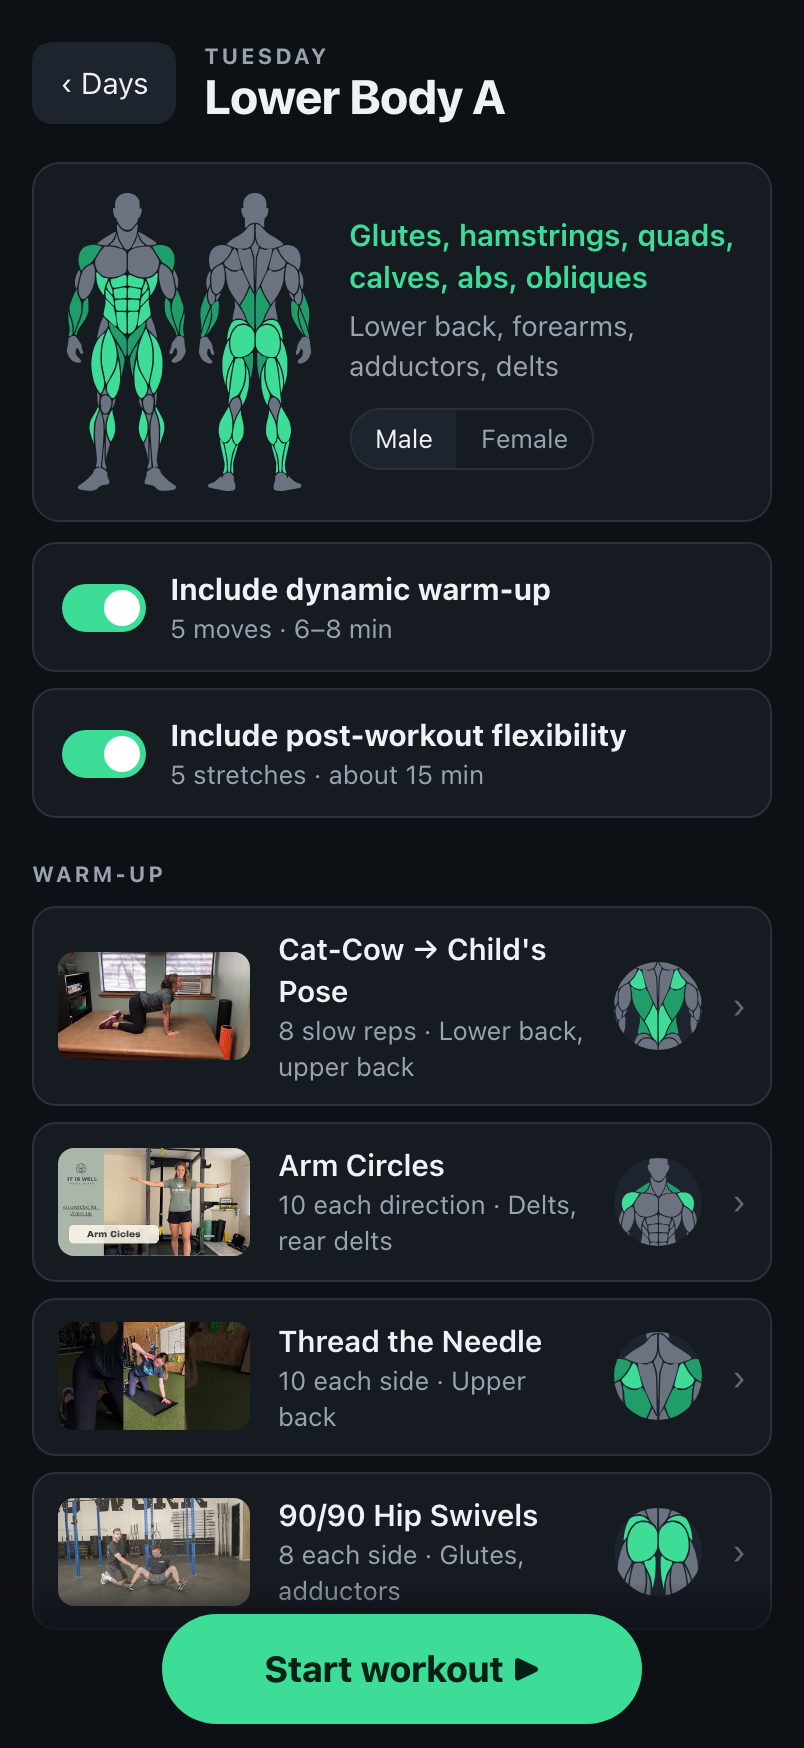
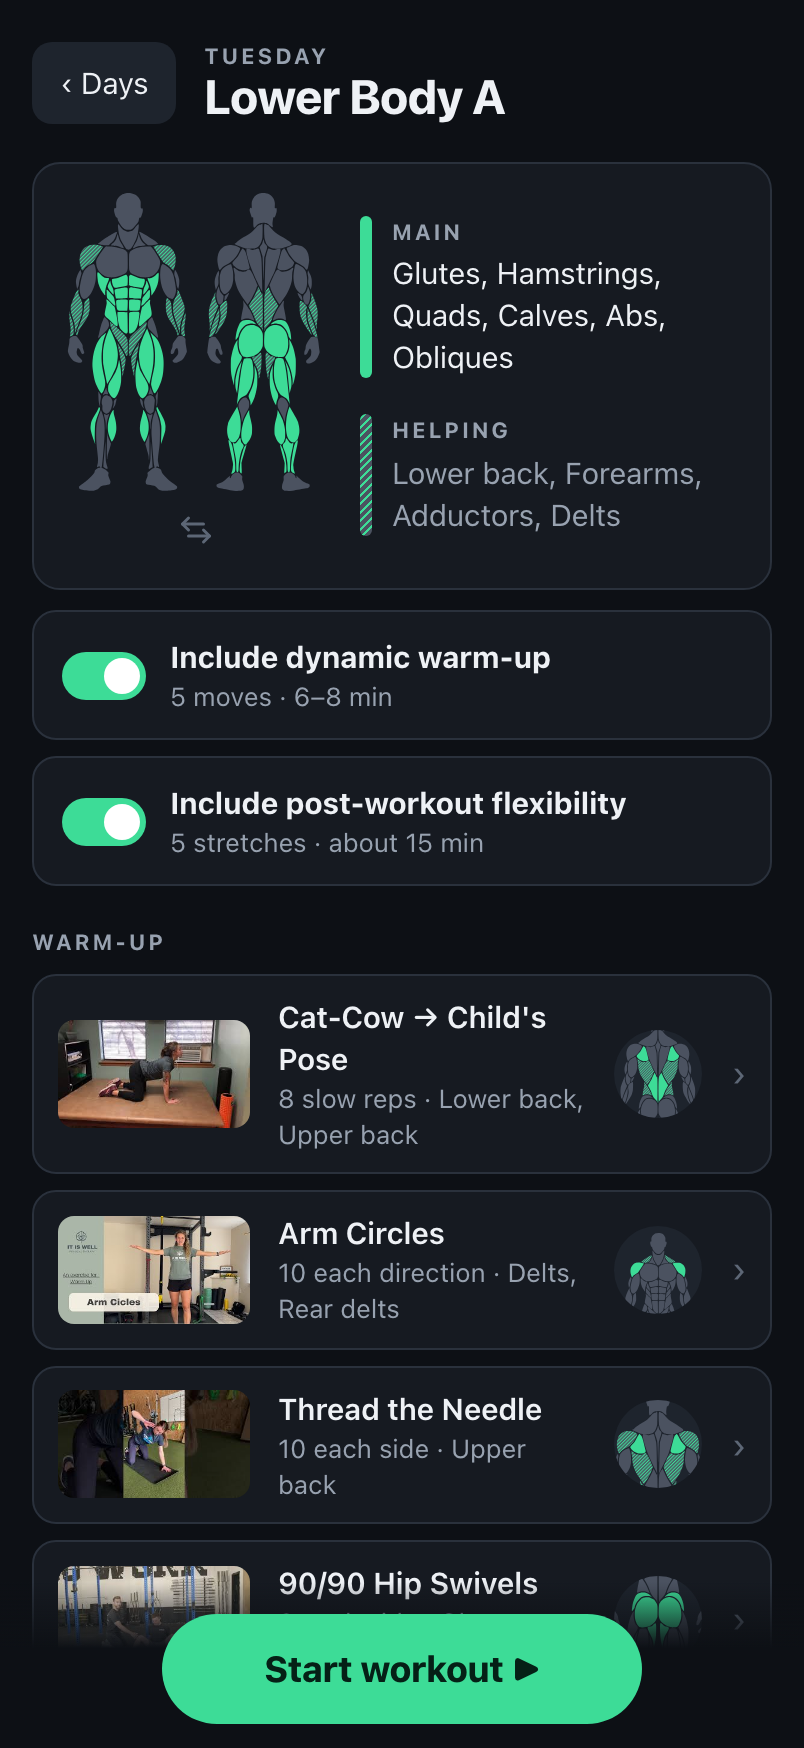
Very fine stripes for helping muscles, matched on the key's diagonal bar

diff --git a/styles.css b/styles.css
@@ -111,10 +111,10 @@ h1, h2, h3, p { margin: 0; }
 .fig-col { display: flex; flex-direction: column; align-items: center; gap: 4px; flex: none; }
 .fig-toggle { color: var(--faint); padding: 6px; border-radius: 8px; line-height: 0; }
 /* the key: a bar drawn like the muscles it stands for (solid main, striped helping) */
-.muscle-group { position: relative; padding: 2px 0 2px 13px; text-align: left; }
+.muscle-group { position: relative; padding: 2px 0 2px 16px; text-align: left; }
 .muscle-group + .muscle-group { margin-top: 14px; }
-.muscle-group::before { content: ""; position: absolute; left: 0; top: 2px; bottom: 2px; width: 3px; border-radius: 2px; background: #3ddc97; }
-.muscle-group.help::before { background: repeating-linear-gradient(to bottom, #3ddc97 0 4px, #4b5260 4px 8px); }
+.muscle-group::before { content: ""; position: absolute; left: 0; top: 2px; bottom: 2px; width: 6px; border-radius: 3px; background: #3ddc97; }
+.muscle-group.help::before { background: repeating-linear-gradient(-45deg, #3ddc97 0 1px, #4b5260 1px 3px); }   /* the figure's stripes, at this size */
 .muscle-group .names { margin-top: 3px; line-height: 1.4; }
 .muscle-group.help .names { color: var(--muted); }
 .finished .muscle-groups { max-width: 340px; }

diff --git a/index.html b/index.html
@@ -14,8 +14,8 @@
 <body>
 <!-- Stripes for helping muscles on every muscle figure (Figure.COLORS.help) -->
 <svg width="0" height="0" style="position:absolute" aria-hidden="true"><defs>
-  <pattern id="fig-help" patternUnits="userSpaceOnUse" width="36" height="36" patternTransform="rotate(45)">
-    <rect width="36" height="36" fill="#4b5260"/><rect width="16" height="36" fill="#3ddc97"/></pattern></defs></svg>
+  <pattern id="fig-help" patternUnits="userSpaceOnUse" width="16" height="16" patternTransform="rotate(45)">
+    <rect width="16" height="16" fill="#4b5260"/><rect width="7" height="16" fill="#3ddc97"/></pattern></defs></svg>
 
 <!-- Home: the plan's days -->
 <section id="home" class="screen">

diff --git a/CLAUDE.md b/CLAUDE.md
@@ -40,7 +40,7 @@ Live: https://ashwinr93.github.io/workout/ (branch `main`). Staging: https://ash
 - **Wording:** every cue must read well *and* sound natural when the coach says it — no bracketed asides, no pose-name labels ("Cow: …", "Y: …") — just the instruction (use "First… / Next… / Finally…" for sequences), no ALL-CAPS emphasis, no "DB" prefix in names. The self-test's Wording check enforces this.
 - **Screen hierarchy:** exercise name > target pill (holds: big countdown) > Focus card > current cue (follows the voice) > quiet amber safety line; Done is the biggest button. Must fit an iPhone in landscape (~852×320 usable) and portrait. Panel = scrollable `.panel-body` + `.controls` pinned to the bottom; never let flex squeeze content (`flex-shrink:0` on body children) — trim copy/spacing instead. The top bar stays inside the safe area (Dynamic Island). The Home Screen app uses an opaque status bar (`apple-mobile-web-app-status-bar-style: black`): with `black-translucent`, iOS 26 launches the page scrolled to −62 pt and later lets content slide under the status bar.
 - **Coach pacing:** set 1: name and target, the cues spread through the set, then the Focus last as "Remember, …" (never before the movement has been described). Cues never restate the Focus — each cue adds something new. Set 2 (or the second side): the Focus is the one reminder; later sets rotate other cues. Holds spread cues then the Focus, before "Ten seconds left". Rests say what's next and "Ten seconds. Get ready."
-- **Muscle map:** main muscles solid `#3ddc97`, helping muscles striped green (`#fig-help` pattern in index.html; two shades of green were too hard to tell apart), body `#4b5260`. The day card and finish screen key them as two groups: a small "MAIN" / "HELPING" label, the names in neutral text, and a thin bar drawn like the muscles (solid / striped). Muscle names are capitalised. The figure swap is a small ⇄ icon centred under the figures, no text. Badges frame themselves on the main muscles (view with the most main-muscle area). Rows: badge + "amount · main muscles"; player: main muscles in the set line and a badge beside the name/target (portrait: beside the target, name keeps the full width); rest: badge beside "Up next"; day summary card and finish screen: full front and back figures. Real muscle names on screen, never simplified. The male/female figure is switched by a quiet "Show female/male figure" link under the day card's figures (`store "figure"`): only where the figures are visible, never as a prominent control (it looked like it changed the workout) and not on the home page (meaningless before you've seen a figure) or the player; never in the plan link, never asked by the AI.
+- **Muscle map:** main muscles solid `#3ddc97`, helping muscles finely striped green (`#fig-help`: 45°, period 16 / stripe 7 figure units; two shades of green were too hard to tell apart), body `#4b5260`. The day card and finish screen key them as two groups: a small "MAIN" / "HELPING" label, the names in neutral text, and a 6px bar drawn like the muscles (solid / the same diagonal stripes). Muscle names are capitalised. The figure swap is a small ⇄ icon centred under the figures, no text. Badges frame themselves on the main muscles (view with the most main-muscle area). Rows: badge + "amount · main muscles"; player: main muscles in the set line and a badge beside the name/target (portrait: beside the target, name keeps the full width); rest: badge beside "Up next"; day summary card and finish screen: full front and back figures. Real muscle names on screen, never simplified. The male/female figure is switched by a quiet "Show female/male figure" link under the day card's figures (`store "figure"`): only where the figures are visible, never as a prominent control (it looked like it changed the workout) and not on the home page (meaningless before you've seen a figure) or the player; never in the plan link, never asked by the AI.
 - **Plans come only from the library.** An AI picks exercises and amounts; it never adds content. Every amount in `DOSE` has a recorded clip (standard rep ranges only: 6–8, 8–10, 10–12, 12–15, 15–20). The parser fixes what it safely can (case, spaces, near-miss ids, out-of-range numbers) and reports the rest on the "This link needs a fix" screen with a message to paste back to the AI. Keep the link format backwards compatible (`v1`); a breaking change needs `v2` with `v1` still readable.
 - **A plan lives in its link.** The last plan opened is remembered on the device (`store "plan"`, recent ones in `"plans"`); no plan → the example. Nothing about the person is stored or sent anywhere.
 - **Day kinds:** workout; stretch (only stretches: section "cool", 10 s rests); activity (one activity, e.g. `sport` for the owner's football: warm-up and cool-down buttons, no player).
